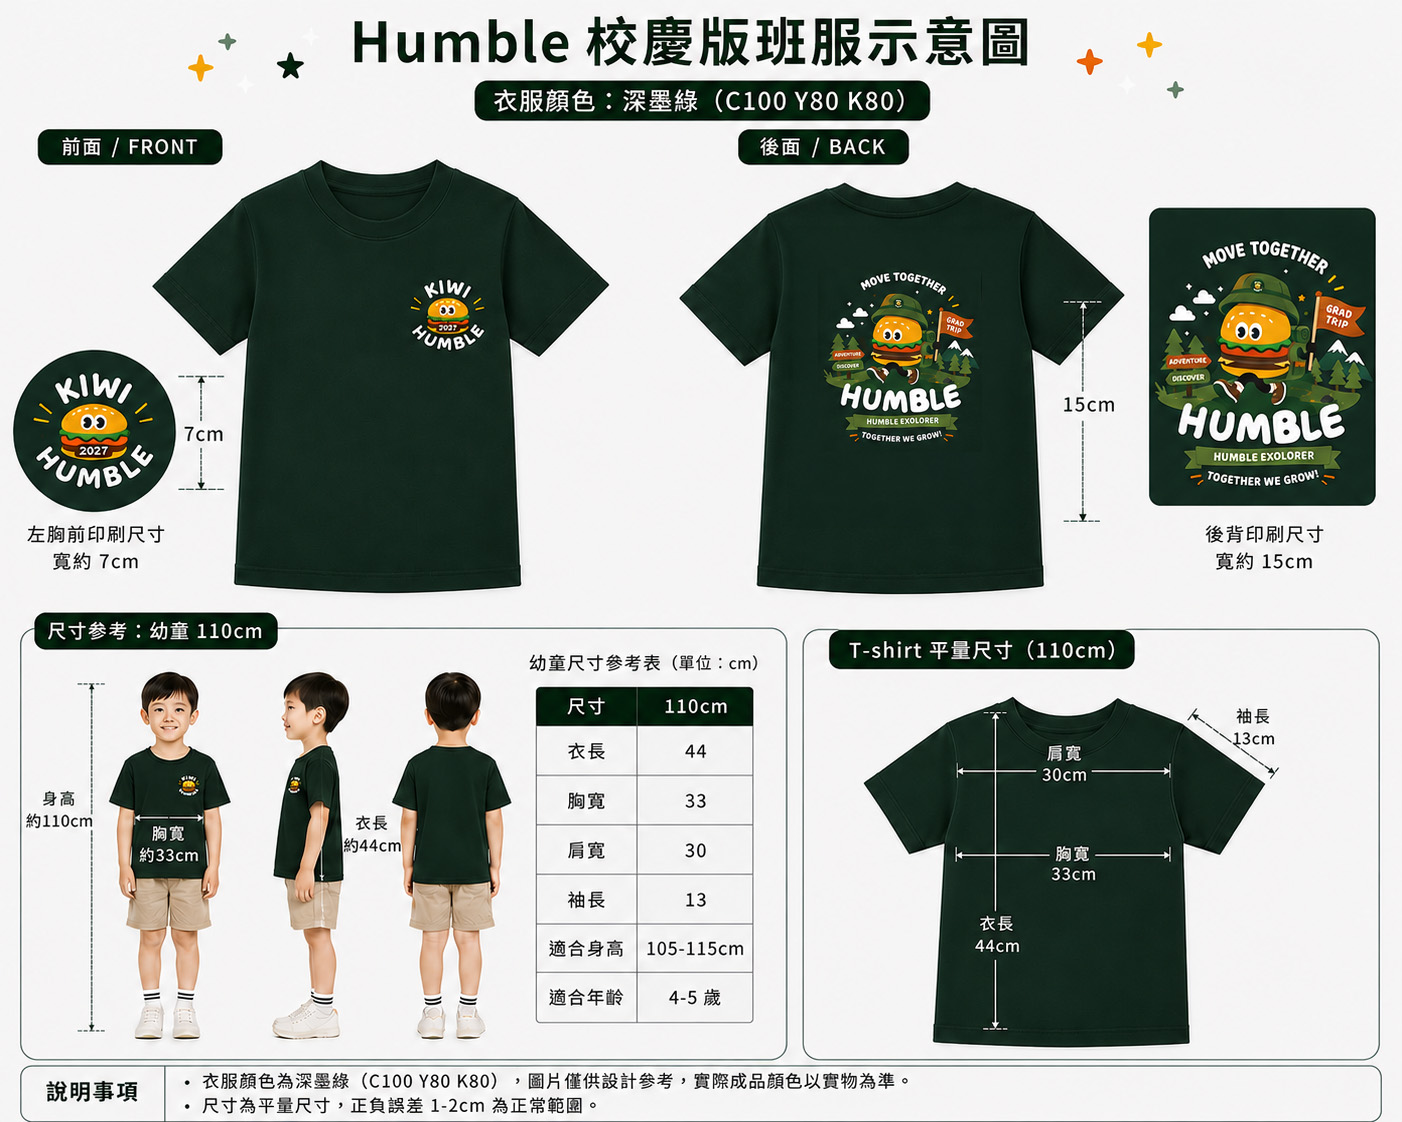
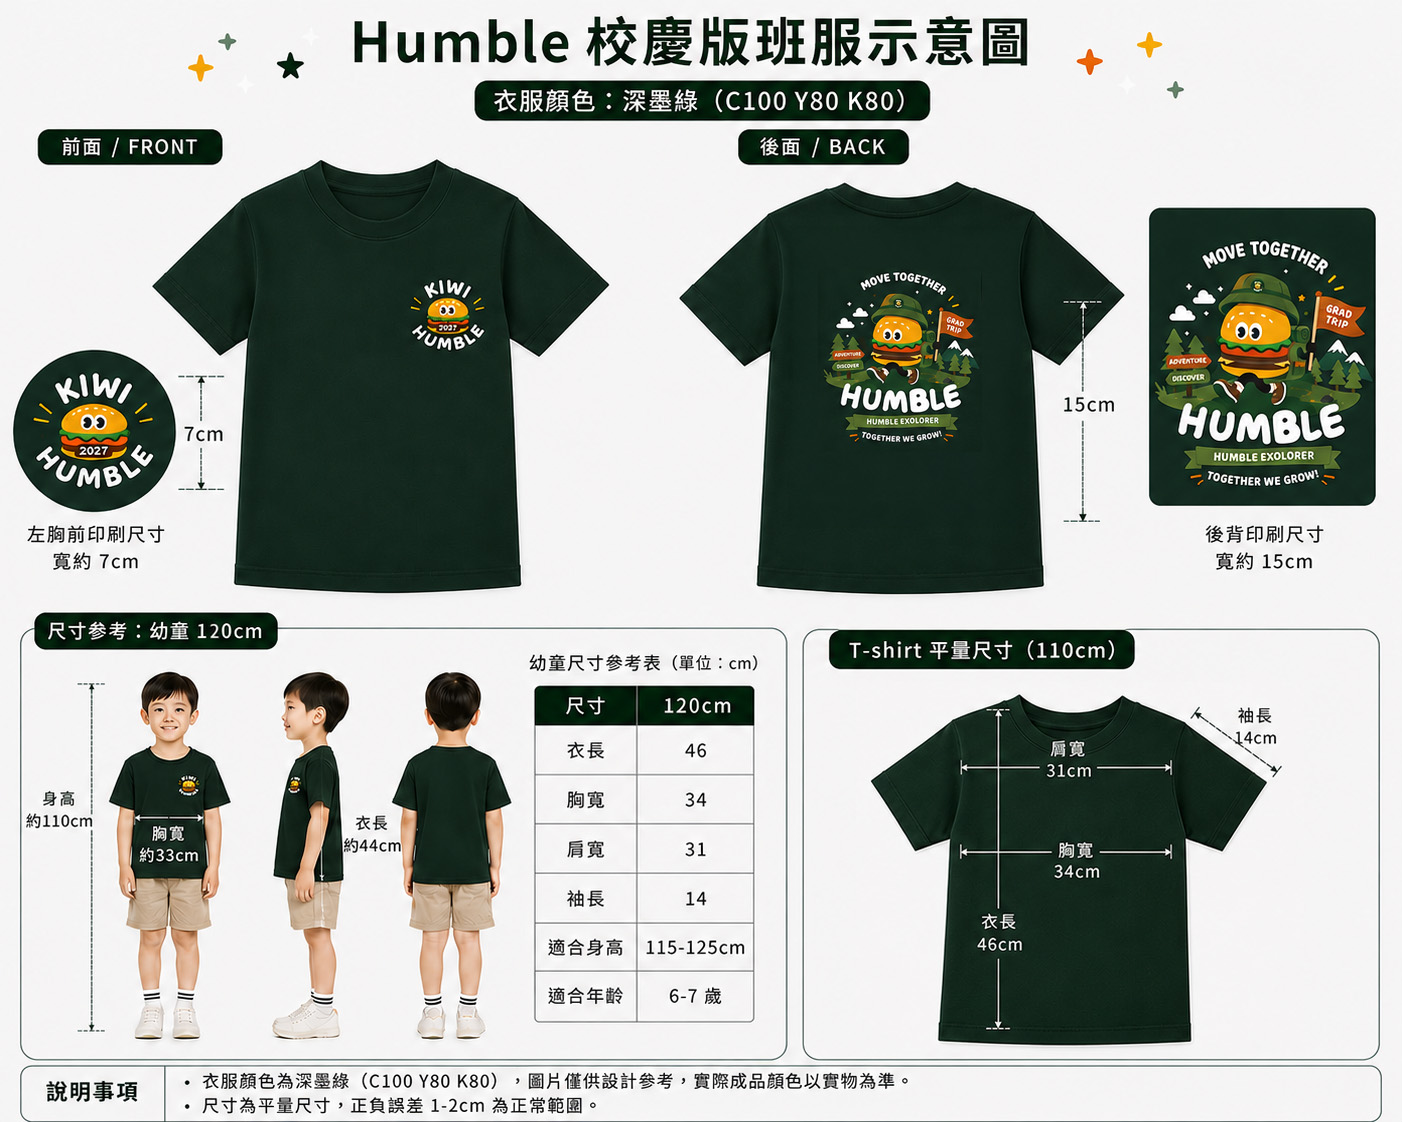
Update class shirt image and table style

diff --git a/resources/views/member/dashboard.blade.php b/resources/views/member/dashboard.blade.php
@@ -127,8 +127,8 @@
                             <div class="overflow-hidden rounded-xl border border-slate-200">
                                 <div class="bg-kiwi-ink px-4 py-2 font-black text-kiwi-gold">吸濕排汗 - 兒童 尺寸表/SIZE</div>
                                 <table class="w-full text-center text-sm">
-                                    <thead class="bg-slate-50 text-kiwi-blue">
-                                        <tr><th class="px-3 py-2"></th><th>#6</th><th>#8</th><th>#10</th></tr>
+                                    <thead class="bg-sky-100 text-kiwi-blue">
+                                        <tr class="h-12"><th class="px-3 py-3"></th><th class="px-3 py-3">#6</th><th class="px-3 py-3">#8</th><th class="px-3 py-3">#10</th></tr>
                                     </thead>
                                     <tbody class="divide-y divide-slate-200 font-bold">
                                         <tr><th class="px-3 py-2 text-left text-kiwi-blue">衣長</th><td>46</td><td>50</td><td>54</td></tr>
@@ -143,8 +143,8 @@
                                 <div class="bg-kiwi-ink px-4 py-2 font-black text-kiwi-gold">吸濕排汗 - 大人 尺寸表/SIZE（單位/cm）</div>
                                 <div class="overflow-x-auto">
                                     <table class="w-full min-w-[620px] text-center text-sm">
-                                        <thead class="bg-slate-50 text-kiwi-blue">
-                                            <tr><th class="px-3 py-2"></th><th>XS</th><th>S</th><th>M</th><th>L</th><th>XL</th><th>2L</th><th>3L</th><th>5L</th></tr>
+                                        <thead class="bg-sky-100 text-kiwi-blue">
+                                            <tr class="h-12"><th class="px-3 py-3"></th><th class="px-3 py-3">XS</th><th class="px-3 py-3">S</th><th class="px-3 py-3">M</th><th class="px-3 py-3">L</th><th class="px-3 py-3">XL</th><th class="px-3 py-3">2L</th><th class="px-3 py-3">3L</th><th class="px-3 py-3">5L</th></tr>
                                         </thead>
                                         <tbody class="divide-y divide-slate-200 font-bold">
                                             <tr><th class="px-3 py-2 text-left text-kiwi-blue">衣長</th><td>60</td><td>64</td><td>68</td><td>70</td><td>72</td><td>76</td><td>80</td><td>84</td></tr>
